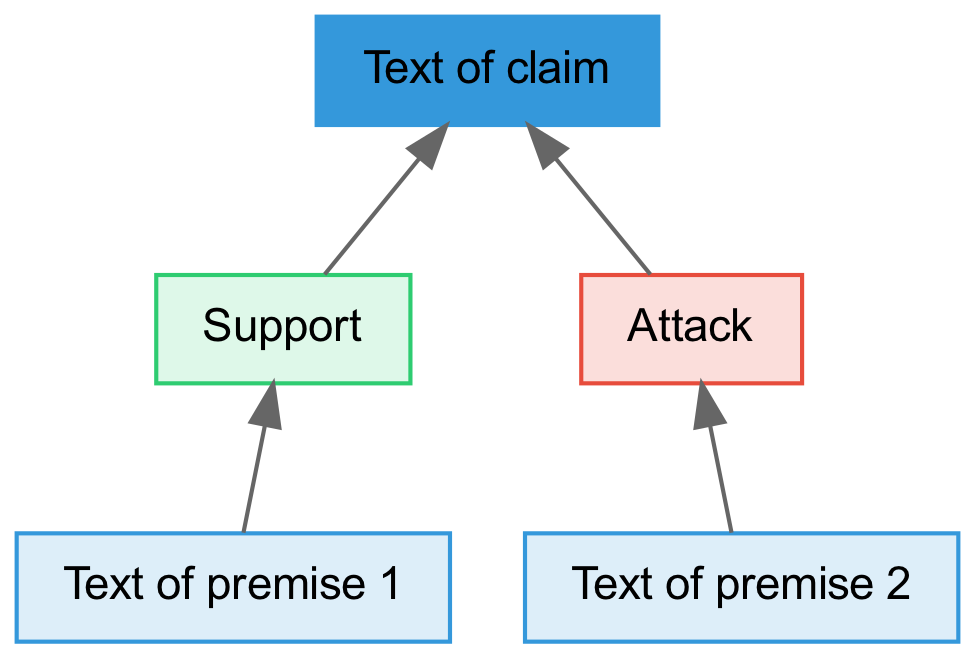
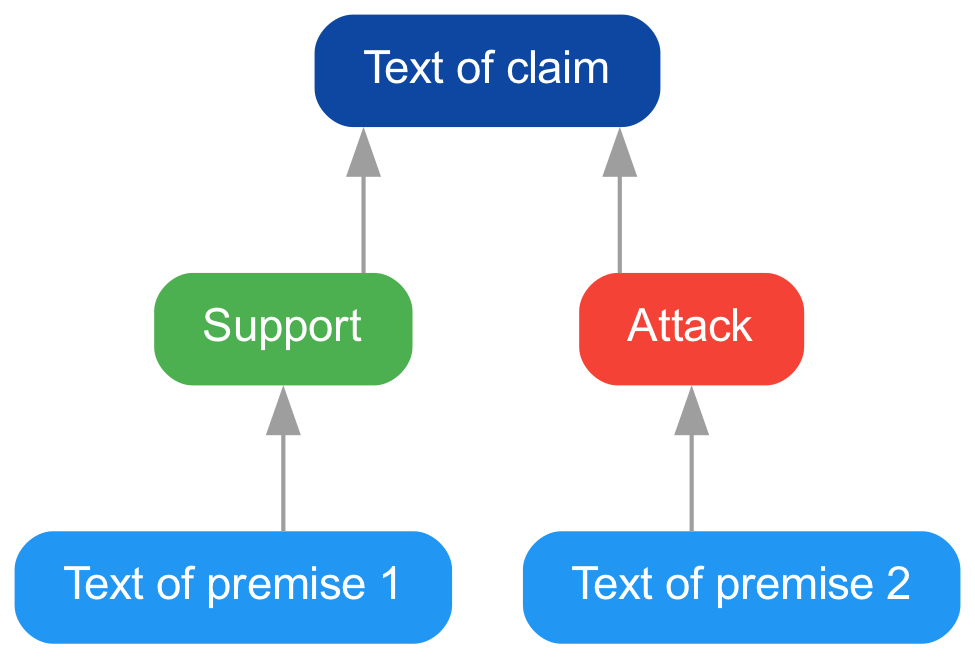
docs: update example image

diff --git a/README.md b/README.md
@@ -93,7 +93,7 @@ To illustrate this, we generate a graph with two premises that are connected to 
 **Please note:** In case edges with nodes not yet contained in the graph are added, the respective nodes are added automatically.
 
 ```python
-graph = ag.Graph("TITLE")
+graph = ag.Graph()
 
 premise1 = ag.AtomNode("Text of premise 1")
 premise2 = ag.AtomNode("Text of premise 2")
@@ -108,6 +108,8 @@ graph.add_edge(ag.Edge(premise2, scheme2))
 graph.add_edge(ag.Edge(scheme2, claim))
 
 graph.major_claim = claim
+gv_graph = ag.dump.graphviz(graph)
+ag.render.graphviz(gv_graph, "./static/programmatic.png")
 ```
 
 With this code, we get the following output
